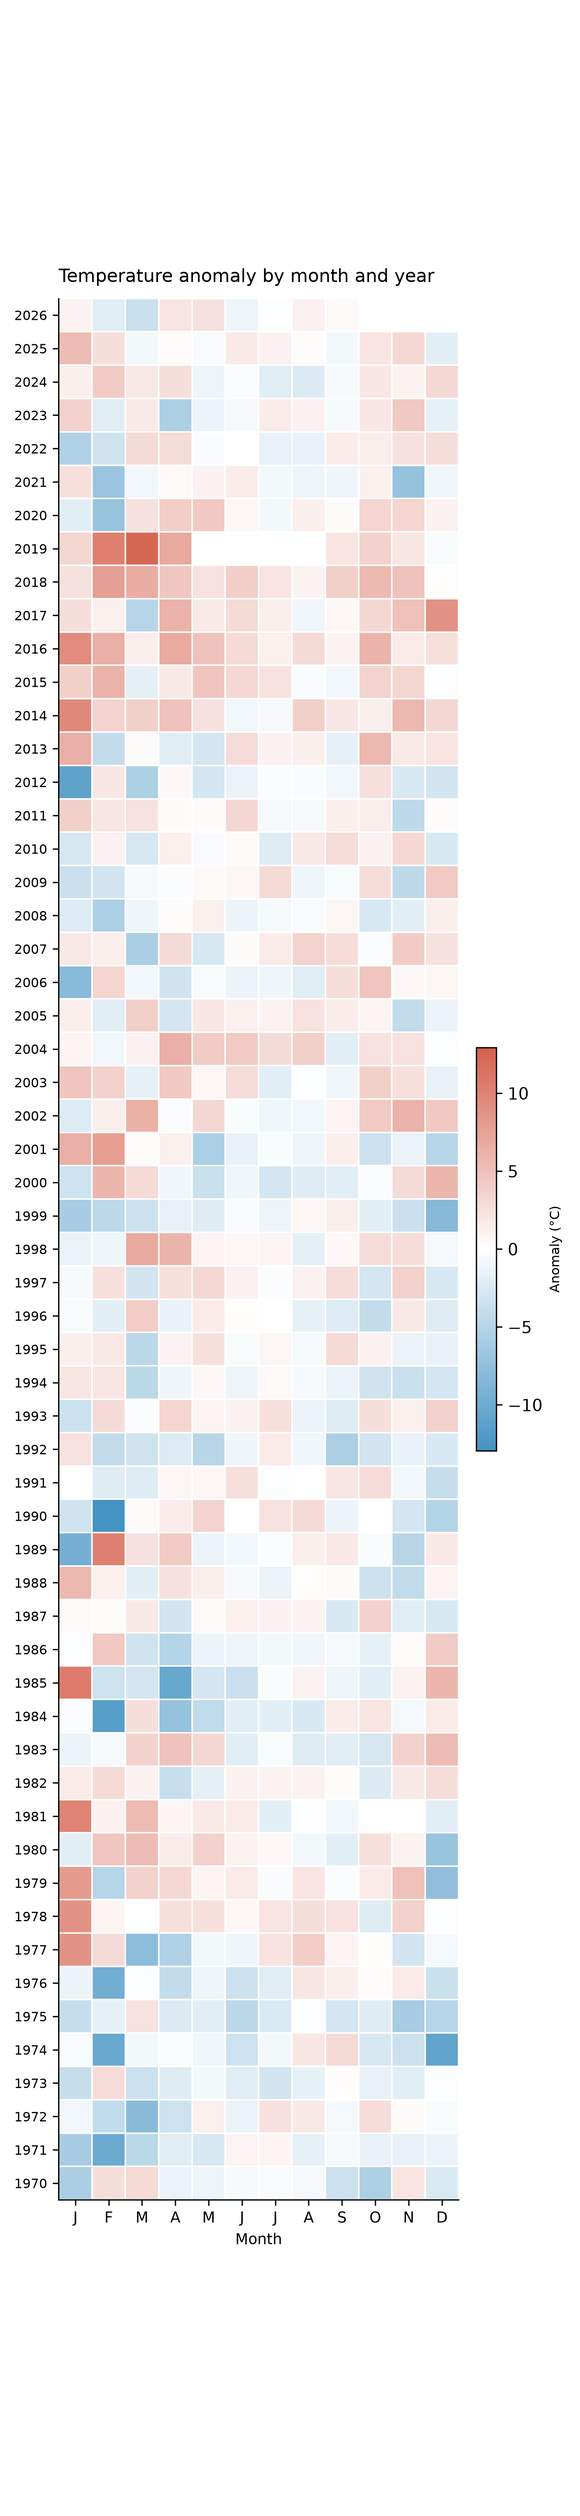
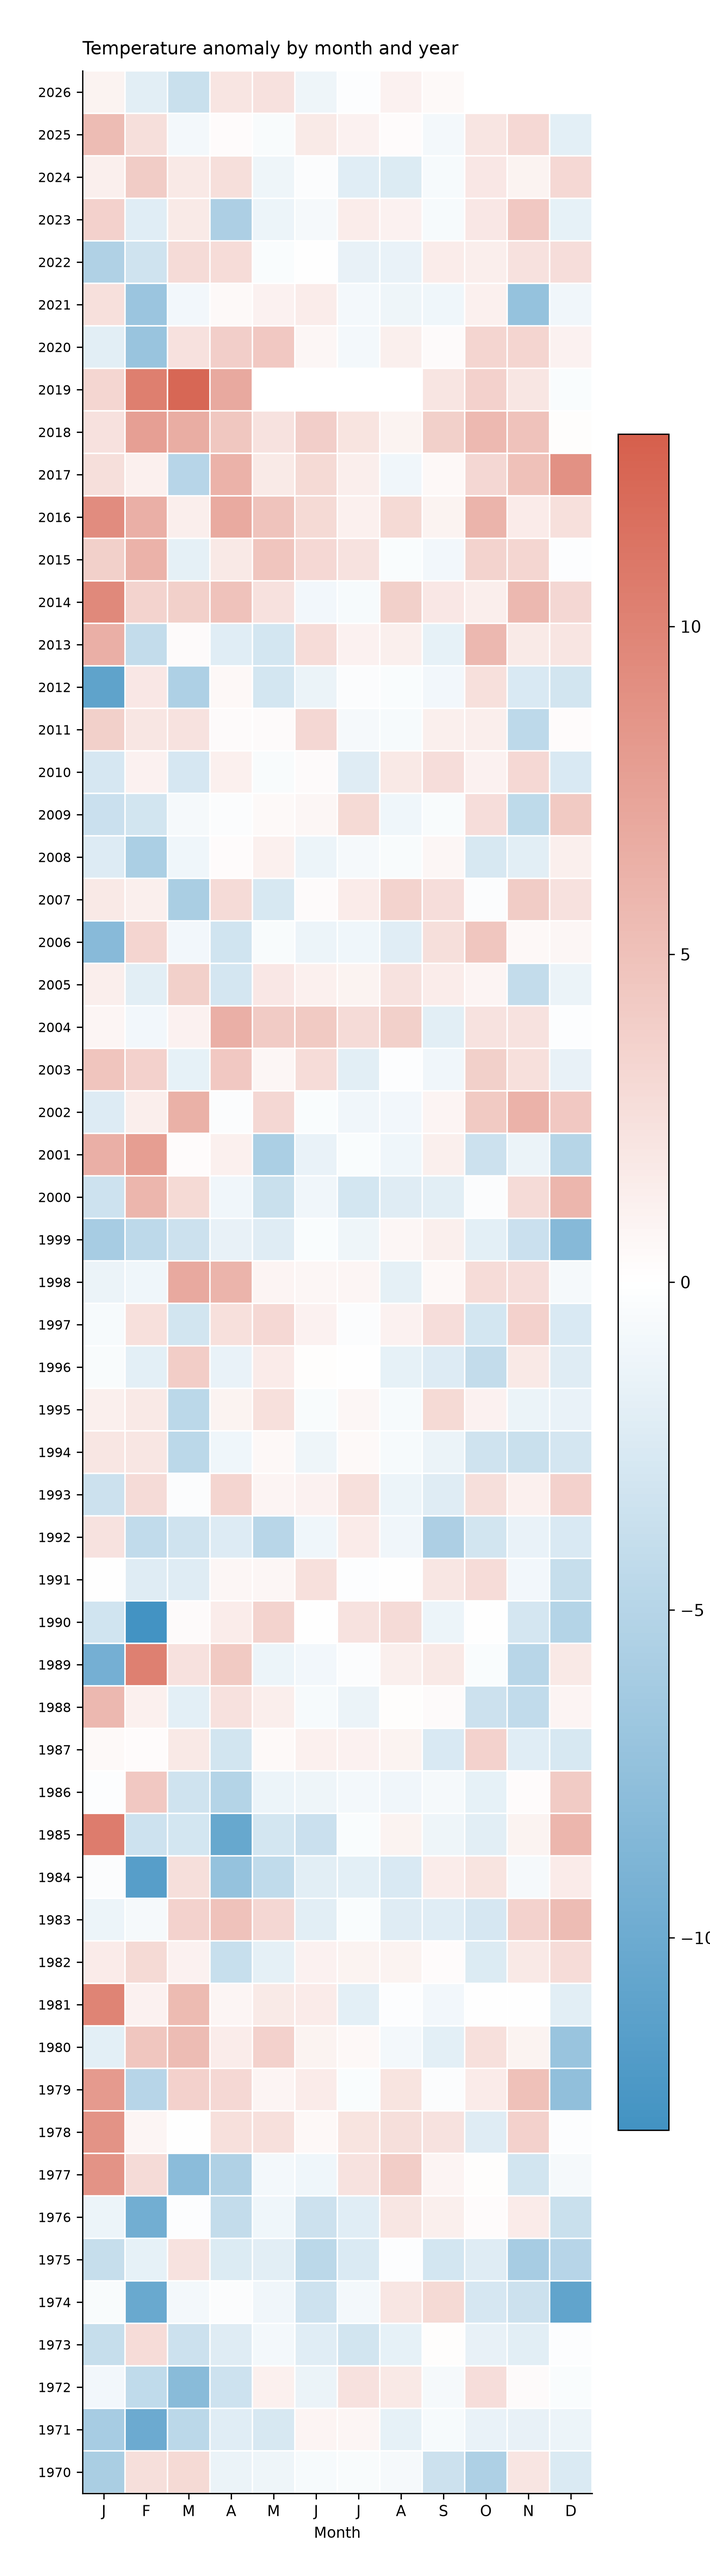
Stripes: enforce 8:1 width:height ratio. Heatmap: kill top/bottom whitespace.
- Warming stripes (both engines) now render as a wide, short band at a
  fixed width:height of 8:1 (static: 5280x660 px at 300 dpi; plotly:
  1785x220 px), instead of cell-width-driven sizing that left the band
  too tall for short records.
- Matplotlib heatmap: replaced aspect='equal' (which shrank the grid to
  fit the figure and left ~11% blank bands top AND bottom) with a fully
  deterministic layout:
    * aspect='auto' -> the image always fills the axes box exactly
      (boxes stay square, so cells are still square),
    * axes box + figure size set by hand from cell size and explicit
      small paddings (0.6-1.0 in) for title/labels/colorbar,
    * colorbar moved to its own manually positioned axes so it can
      never resize the grid.
  Measured top/bottom whitespace: 10.6% / 10.8% -> 1.6% / 1.5%
  (just the title and month-label padding).
- Regenerated README figures with the new layouts.

diff --git a/noaaplotter/noaaplotter.py b/noaaplotter/noaaplotter.py
@@ -901,7 +901,9 @@ class NOAAPlotter(object):
             band_height = figsize[1]
         else:
             band_height = 2.2
-        band_width = max(ncell * 0.12, 3.0)
+        # wide, short band: enforce a width:height ratio of 8:1 (the band should
+        # be far wider than it is tall).
+        band_width = band_height * 8.0
 
         fig, ax = plt.subplots(figsize=(band_width, band_height), dpi=dpi)
 
@@ -1139,18 +1141,34 @@ class NOAAPlotter(object):
 
         months_short = ["J", "F", "M", "A", "M", "J", "J", "A", "S", "O", "N", "D"]
 
-        # square cells: figsize from cell_px; we let `aspect="equal"` handle
-        # the shape, so width = 12 * cell_px and height = n_years * cell_px
-        cell_px = 36  # px per cell at dpi=100 → ~0.36 in per cell
-        width = 12 * cell_px / 100.0
-        height = n_years * cell_px / 100.0
-        # add a little room for the colorbar and year labels
-        width += 0.6
-        height += 0.8
+        # Deterministic sizing so there is NO top/bottom whitespace:
+        # * aspect="auto" makes imshow always fill the axes box exactly
+        #   (square boxes -> square cells), while aspect="equal" would
+        #   shrink the grid to fit the figure's free space and leave blank
+        #   bands above/below the matrix.
+        # * the axes box is placed by hand (small, explicit paddings) and the
+        #   colorbar is an independent axes — none of them steal space from
+        #   the grid, and no tight_layout run is left to reflow anything.
+        cell_in = 0.36            # inches per side -> square cells render cleanly
+        grid_w = 12 * cell_in     # 12 months
+        grid_h = n_years * cell_in
+        pad_left = 0.7            # year labels
+        pad_right = 1.0           # colorbar + its label
+        pad_top = 0.6             # title
+        pad_bottom = 0.7          # month labels ("Month" + ticks)
 
-        fig, ax = plt.subplots(figsize=(width, height), dpi=dpi)
+        fig_w = grid_w + pad_left + pad_right
+        fig_h = grid_h + pad_top + pad_bottom
+
+        fig, ax = plt.subplots(figsize=(fig_w, fig_h), dpi=dpi)
+        ax.set_position([
+            pad_left / fig_w,
+            pad_bottom / fig_h,
+            grid_w / fig_w,
+            grid_h / fig_h,
+        ])
         ax.imshow(
-            masked, aspect="equal", origin="upper",
+            masked, aspect="auto", origin="upper",
             cmap=cmap, norm=norm, interpolation="nearest",
         )
         ax.set_xlim(-0.5, 11.5)
@@ -1175,12 +1193,21 @@ class NOAAPlotter(object):
         for side in ("top", "right"):
             ax.spines[side].set_visible(False)
 
+        # colorbar in a separate (manually positioned) axes so it can never
+        # resize the grid axes
         sm = cm.ScalarMappable(cmap=cmap, norm=norm)
         sm.set_array([])
-        cbar = fig.colorbar(sm, ax=ax, fraction=0.046, pad=0.04)
+        cbar_gap = 0.22                       # inches between grid and bar
+        cbar_w = (pad_right - cbar_gap - 0.35)  # leave room for the label
+        cbar_h = 0.7 * grid_h
+        cax = fig.add_axes([
+            (pad_left + grid_w + cbar_gap) / fig_w,
+            (pad_bottom + (grid_h - cbar_h) / 2) / fig_h,
+            cbar_w / fig_w,
+            cbar_h / fig_h,
+        ])
+        cbar = fig.colorbar(sm, cax=cax)
         cbar.set_label(colorbar_title, fontsize=8)
-
-        fig.tight_layout()
         if save_path:
             fig.savefig(save_path)
         if show_plot:

diff --git a/noaaplotter/figures/plotly_stripes.py b/noaaplotter/figures/plotly_stripes.py
@@ -82,8 +82,8 @@ def make_stripes_figure(
 
     # With N cells and height H, we want the *cell width* to be about 1/N of
     # the figure width — so the band fills the figure edge-to-edge with no
-    # gaps.
-    fig_width = max(n * 24, 360) + (90 if annotations else 0)
+    # gaps.  The overall band is kept wide-and-short: width : height = 8 : 1.
+    fig_width = int(height * 8) + (90 if annotations else 25)
     fig.update_layout(
         template="plotly_white",
         height=height,
